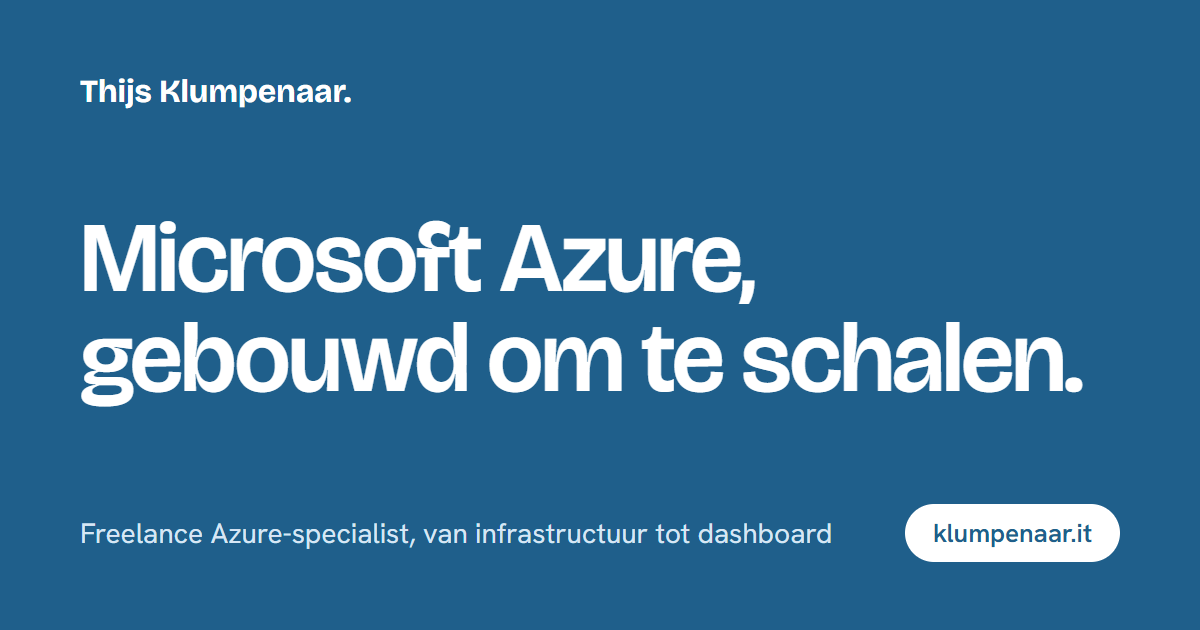
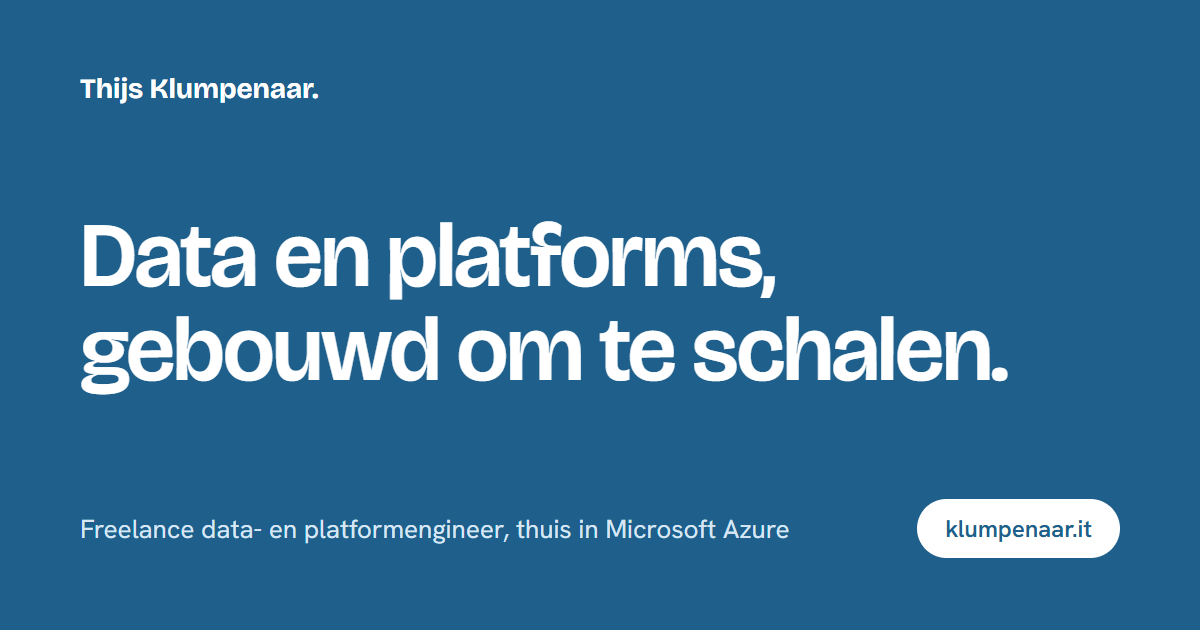
Profiel als data- en platformengineer, DataVloot onder Open source
De site presenteert Thijs niet langer als Azure-specialist maar als
freelance data- en platformengineer, met Microsoft Azure als expertise.
Nieuwe sectie Open source over zijn bijdrage aan DataVloot, en een
nieuwe LinkedIn-preview (og.png) met de nieuwe kop.

diff --git a/index.html b/index.html
@@ -3,17 +3,17 @@
 <head>
 <meta charset="UTF-8" />
 <meta name="viewport" content="width=device-width, initial-scale=1.0" />
-<title>Thijs Klumpenaar | Freelance Microsoft Azure-specialist</title>
-<meta name="description" content="Thijs Klumpenaar is freelance Microsoft Azure-specialist: Azure-platform en automatisering, data warehousing, data-integratie en applicaties die meegroeien met je organisatie." />
+<title>Thijs Klumpenaar | Freelance data- en platformengineer</title>
+<meta name="description" content="Thijs Klumpenaar is freelance data- en platformengineer: dataplatforms, data warehousing, data-integratie en applicaties die meegroeien met je organisatie, met Microsoft Azure als basis en open source waar dat past." />
 <meta name="author" content="Thijs Klumpenaar" />
-<meta property="og:title" content="Thijs Klumpenaar | Freelance Microsoft Azure-specialist" />
-<meta property="og:description" content="Azure-platform en automatisering, data warehousing, data-integratie en applicaties die meegroeien met je organisatie." />
+<meta property="og:title" content="Thijs Klumpenaar | Freelance data- en platformengineer" />
+<meta property="og:description" content="Dataplatforms, data warehousing, data-integratie en applicaties die meegroeien met je organisatie, met Microsoft Azure als basis en open source waar dat past." />
 <meta property="og:type" content="website" />
 <meta property="og:url" content="https://klumpenaar.it/" />
 <meta property="og:image" content="https://klumpenaar.it/og.png" />
 <meta property="og:image:width" content="1200" />
 <meta property="og:image:height" content="630" />
-<meta property="og:image:alt" content="Thijs Klumpenaar: Microsoft Azure, gebouwd om te schalen." />
+<meta property="og:image:alt" content="Thijs Klumpenaar: data en platforms, gebouwd om te schalen." />
 <meta name="twitter:card" content="summary_large_image" />
 <link rel="icon" href="favicon.ico" sizes="32x32" />
 <link rel="icon" href="favicon.svg" type="image/svg+xml" />
@@ -93,6 +93,7 @@
   .facts div { padding-left: 1.1rem; border-left: 3px solid var(--chip); }
   .facts dt { font-size: 0.9rem; }
   .facts dd { font: 600 1.25rem/1.3 var(--display); color: var(--ink); }
+  .facts dd a { color: var(--blue); text-underline-offset: 4px; }
 
   /* Diensten */
   .band { background: var(--soft); }
@@ -138,6 +139,7 @@
     <nav>
       <a href="#over">Over</a>
       <a href="#diensten">Diensten</a>
+      <a href="#open-source">Open source</a>
       <a class="pill" href="#contact">Contact</a>
     </nav>
   </div>
@@ -147,8 +149,8 @@
   <!-- HERO -->
   <div class="hero">
     <div class="wrap">
-      <h1>Microsoft Azure, gebouwd om te schalen.</h1>
-      <p class="lead">Freelance Azure-specialist, van infrastructuur tot dashboard. Ik bouw platformen, datastromen en applicaties die meegroeien met je organisatie.</p>
+      <h1>Data en platforms, gebouwd om te schalen.</h1>
+      <p class="lead">Freelance data- en platformengineer. Ik bouw dataplatforms, datastromen en applicaties die meegroeien met je organisatie, met Microsoft Azure als basis en open source waar dat past.</p>
       <div class="actions">
         <a class="btn btn-blue" href="#contact">Neem contact op</a>
         <a class="btn btn-soft" href="#diensten">Bekijk diensten</a>
@@ -161,12 +163,13 @@
     <div class="wrap about">
       <div>
         <h2>Over mij</h2>
-        <p>Ik ben Thijs Klumpenaar, IT-professional met een achtergrond in data warehousing, data science en platformbeheer. De laatste jaren ligt mijn focus vooral op Microsoft Azure.</p>
+        <p>Ik ben Thijs Klumpenaar, IT-professional met een achtergrond in data warehousing, data science en platformbeheer. Ik voel me het meest thuis in Microsoft Azure, maar waar het past kies ik liever voor open source.</p>
         <p>Mijn werkwijze: alles als code en alles via pipelines. Zo is je omgeving reproduceerbaar, kan je eigen team het beheer overnemen en groeit het mee zonder handwerk.</p>
       </div>
       <dl class="facts">
         <div><dt>Rol</dt><dd>Freelance / ZZP</dd></div>
-        <div><dt>Focus</dt><dd>Microsoft Azure</dd></div>
+        <div><dt>Focus</dt><dd>Data &amp; platforms</dd></div>
+        <div><dt>Expertise</dt><dd>Microsoft Azure</dd></div>
         <div><dt>Rode draad</dt><dd>Schaalbare software</dd></div>
       </dl>
     </div>
@@ -176,7 +179,7 @@
   <section class="band" id="diensten">
     <div class="wrap">
       <h2>Diensten</h2>
-      <p class="intro">Waar je me voor kunt inschakelen, bijna altijd met Microsoft Azure als basis.</p>
+      <p class="intro">Waar je me voor kunt inschakelen, meestal met Microsoft Azure als basis.</p>
       <div class="service">
         <h3>Azure-platform &amp; automatisering</h3>
         <div>
@@ -209,13 +212,28 @@
     </div>
   </section>
 
+  <!-- OPEN SOURCE -->
+  <section id="open-source">
+    <div class="wrap about">
+      <div>
+        <h2>Open source</h2>
+        <p>Naast mijn vaste werkzaamheden werk ik mee aan <strong>DataVloot</strong>, een volledig open-source data- en AI-platform. Het combineert open-source Python-tools als Dagster, dbt en DuckDB tot één samenwerkend geheel. Alles is van jou, je kunt overal in kijken en je zit nergens aan vast.</p>
+        <ul class="tags"><li>Dagster</li><li>dlt</li><li>dbt</li><li>DuckDB</li><li>Python</li></ul>
+      </div>
+      <dl class="facts">
+        <div><dt>Project</dt><dd><a href="https://datavloot.nl" target="_blank" rel="noopener">datavloot.nl</a></dd></div>
+        <div><dt>Code</dt><dd><a href="https://github.com/datavloot/datavloot-toolkit" target="_blank" rel="noopener">GitHub</a></dd></div>
+      </dl>
+    </div>
+  </section>
+
   <!-- CONTACT -->
   <section id="contact">
     <div class="wrap">
       <div class="contact-panel">
         <div>
           <h2>Stuur me een berichtje!</h2>
-          <p>Heb je een vraag, een opdracht of gewoon zin om te sparren over Azure, automatisering of AI? Ik denk graag mee!</p>
+          <p>Heb je een vraag, een opdracht of gewoon zin om te sparren over data, Azure of AI? Ik denk graag mee!</p>
         </div>
         <div>
           <a class="mail" href="mailto:thijs@klumpenaar.it">thijs@klumpenaar.it</a>
